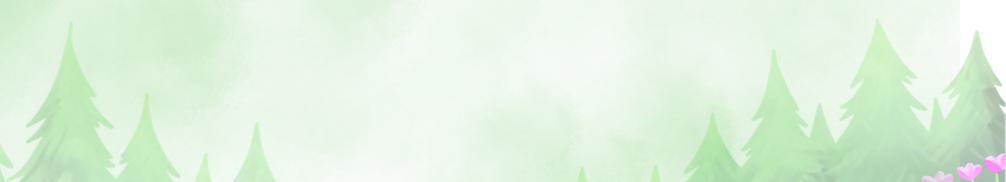
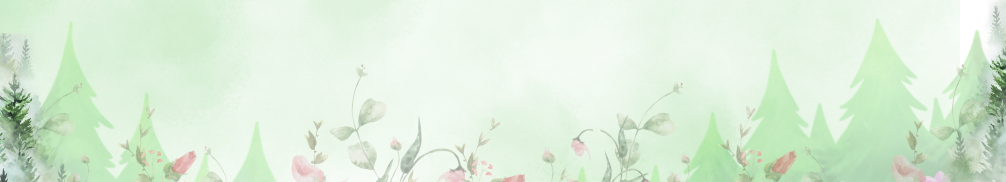
update

diff --git a/src/pages/Login.jsx b/src/pages/Login.jsx
@@ -1,88 +1,217 @@
 import { Link, useNavigate } from "react-router-dom"
 import { useState } from "react"
 import bgDaun from "../assets/bgDaun.jpeg"
+import Swal from "sweetalert2"
 
 function Login() {
   const navigate = useNavigate()
 
   const [email, setEmail] = useState("")
   const [password, setPassword] = useState("")
+  const [showForgot, setShowForgot] = useState(false)
 
   const handleLogin = (e) => {
     e.preventDefault()
 
-    // 1. Ambil data yang sudah tersimpan di localStorage (dari pendaftaran)
     const storedEmail = localStorage.getItem("userEmail")
     const storedPassword = localStorage.getItem("userPassword")
     const storedName = localStorage.getItem("userName")
 
-    // 2. Validasi: Cek apakah akun sudah ada dan datanya cocok
     if (!storedEmail) {
-      alert("Akun belum terdaftar! Silakan daftar terlebih dahulu.")
+      Swal.fire({
+        title: "Akun Tidak Ada",
+        text: "Kamu belum terdaftar nih, daftar dulu yuk!",
+        icon: "warning",
+        confirmButtonColor: "#16a34a",
+        borderRadius: "25px"
+      })
       navigate("/register")
       return
     }
 
     if (email === storedEmail && password === storedPassword) {
-      // Jika cocok, set status login
       localStorage.setItem("isLoggedIn", "true")
       
-      alert(`Login berhasil! Selamat datang kembali, ${storedName}`)
-      navigate("/") // Masuk ke Dashboard
+      Swal.fire({
+        title: `Halo, ${storedName}!`,
+        text: "Selamat datang kembali di SehatYuk 🌿",
+        icon: "success",
+        timer: 2000,
+        showConfirmButton: false,
+        borderRadius: "25px"
+      })
+      
+      setTimeout(() => navigate("/"), 2000)
     } else {
-      // Jika tidak cocok
-      alert("Email atau password salah. Coba dicek lagi ya!")
+      setShowForgot(true)
+      Swal.fire({
+        title: "Ups!",
+        text: "Email atau password salah. Cek lagi ya!",
+        icon: "error",
+        confirmButtonColor: "#16a34a",
+        borderRadius: "25px"
+      })
+    }
+  }
+
+  // --- ALUR LUPA KATA SANDI (FULL FLOW) ---
+  const handleForgotPassword = async () => {
+    // Langkah 1: Minta Email
+    const { value: emailInput } = await Swal.fire({
+      title: 'Lupa Kata Sandi?',
+      text: 'Masukkan email kamu untuk menerima kode verifikasi.',
+      input: 'email',
+      inputPlaceholder: 'Masukkan email terdaftar',
+      showCancelButton: true,
+      confirmButtonText: 'Kirim Kode',
+      confirmButtonColor: '#16a34a',
+      cancelButtonText: 'Batal',
+      borderRadius: '25px',
+    })
+
+    if (emailInput) {
+      // Validasi email terdaftar (Simulasi)
+      if (emailInput !== localStorage.getItem("userEmail")) {
+        Swal.fire('Error', 'Email ini tidak terdaftar di sistem kami.', 'error');
+        return;
+      }
+
+      // Langkah 2: Simulasi Kirim Kode (OTP)
+      const otpCode = Math.floor(100000 + Math.random() * 900000);
+      
+      Swal.fire({
+        title: 'Mengirim Kode...',
+        html: 'Mohon tunggu sebentar ya, Lip.',
+        allowOutsideClick: false,
+        didOpen: () => { Swal.showLoading() }
+      })
+
+      // Simulasi delay 2 detik
+      setTimeout(async () => {
+        // Langkah 3: Input Kode Verifikasi
+        const { value: otpInput } = await Swal.fire({
+          icon: 'info',
+          title: 'Verifikasi Kode',
+          html: `Kode telah dikirim ke <b>${emailInput}</b>.<br><br>Gunakan kode: <b class="text-green-600 text-xl">${otpCode}</b>`,
+          input: 'text',
+          inputPlaceholder: 'Masukkan 6 digit kode',
+          showCancelButton: true,
+          confirmButtonText: 'Verifikasi',
+          confirmButtonColor: '#16a34a',
+          borderRadius: '25px',
+          inputValidator: (value) => {
+            if (!value) return 'Kode harus diisi!'
+            if (value !== otpCode.toString()) return 'Kode salah! Cek email lagi.'
+          }
+        });
+
+        if (otpInput) {
+          // Langkah 4: Buat Password Baru
+          const { value: newPass } = await Swal.fire({
+            title: 'Password Baru',
+            text: 'Masukkan password baru yang mudah kamu ingat.',
+            input: 'password',
+            inputPlaceholder: 'Password baru',
+            inputAttributes: { autocapitalize: 'off', autocorrect: 'off' },
+            showCancelButton: true,
+            confirmButtonText: 'Simpan Password',
+            confirmButtonColor: '#16a34a',
+            borderRadius: '25px',
+            inputValidator: (value) => {
+              if (value.length < 6) return 'Password minimal 6 karakter!'
+            }
+          });
+
+          if (newPass) {
+            // Update simulasi database
+            localStorage.setItem("userPassword", newPass);
+            
+            Swal.fire({
+              icon: 'success',
+              title: 'Berhasil!',
+              text: 'Password kamu sudah diperbarui. Silakan login kembali.',
+              confirmButtonColor: '#16a34a',
+              borderRadius: '25px'
+            });
+            
+            // Bersihkan input login
+            setPassword("");
+            setShowForgot(false);
+          }
+        }
+      }, 2000);
     }
   }
 
   return (
-    <div className="flex items-center justify-center min-h-screen bg-green-50 p-4">
+    <div className="flex items-center justify-center min-h-screen bg-green-50 p-4 font-sans">
       <div
-        className="rounded-3xl shadow-2xl w-80 bg-cover bg-center overflow-hidden border border-white/20"
+        className="rounded-[40px] shadow-2xl w-80 bg-cover bg-center overflow-hidden border border-white/20 transition-all duration-500"
         style={{ backgroundImage: `url(${bgDaun})` }}
       >
-        <div className="p-8 bg-white/80 backdrop-blur-md">
-          <h1 className="text-3xl font-black text-green-700 text-center mb-2 tracking-tight">
-            🌿 SehatYuk
-          </h1>
-
-          <p className="text-green-800/60 text-center mb-6 text-sm font-medium">
-            Masuk untuk melanjutkan
-          </p>
+        <div className="p-9 bg-white/85 backdrop-blur-lg">
+          <div className="flex flex-col items-center mb-6">
+            <span className="text-4xl mb-2">🌿</span>
+            <h1 className="text-3xl font-black text-green-700 tracking-tighter">
+              SehatYuk
+            </h1>
+            <p className="text-[10px] font-bold text-green-800/50 uppercase tracking-[0.2em] mt-1">
+              Mental Health Tracker
+            </p>
+          </div>
 
           <form onSubmit={handleLogin} className="space-y-4">
-            <input
-              type="email"
-              placeholder="Email"
-              required
-              value={email}
-              onChange={(e) => setEmail(e.target.value)}
-              className="w-full p-4 border border-green-100 rounded-2xl bg-white/90 outline-none focus:ring-2 focus:ring-green-400 text-sm transition-all"
-            />
+            <div className="space-y-1">
+              <input
+                type="email"
+                placeholder="Email"
+                required
+                value={email}
+                onChange={(e) => setEmail(e.target.value)}
+                className="w-full p-4 border border-green-100 rounded-[22px] bg-white/90 outline-none focus:ring-2 focus:ring-green-400 text-sm transition-all shadow-sm"
+              />
+            </div>
 
-            <input
-              type="password"
-              placeholder="Password"
-              required
-              value={password}
-              onChange={(e) => setPassword(e.target.value)}
-              className="w-full p-4 border border-green-100 rounded-2xl bg-white/90 outline-none focus:ring-2 focus:ring-green-400 text-sm transition-all"
-            />
+            <div className="space-y-1">
+              <input
+                type="password"
+                placeholder="Password"
+                required
+                value={password}
+                onChange={(e) => setPassword(e.target.value)}
+                className="w-full p-4 border border-green-100 rounded-[22px] bg-white/90 outline-none focus:ring-2 focus:ring-green-400 text-sm transition-all shadow-sm"
+              />
+              
+              {/* TOMBOL LUPA SANDI (Hanya muncul jika salah) */}
+              {showForgot && (
+                <div className="flex justify-end px-2 animate-in fade-in slide-in-from-right-2 duration-300">
+                  <button 
+                    type="button" 
+                    onClick={handleForgotPassword}
+                    className="text-[10px] font-black text-green-600 hover:text-green-800 underline uppercase tracking-tighter"
+                  >
+                    Lupa kata sandi?
+                  </button>
+                </div>
+              )}
+            </div>
 
             <button 
               type="submit"
-              className="w-full bg-green-600 text-white p-4 rounded-full hover:bg-green-700 transition-all font-bold shadow-lg active:scale-95 mt-2"
+              className="w-full bg-green-600 text-white p-4 rounded-full hover:bg-green-700 transition-all font-black shadow-lg active:scale-95 mt-4 tracking-widest text-xs"
             >
               MASUK SEKARANG
             </button>
           </form>
 
-          <p className="text-xs text-center mt-6 text-green-900/70 font-medium">
-            Belum punya akun?{" "}
-            <Link to="/register" className="font-bold text-green-700 hover:underline">
-              Daftar di sini
+          <div className="mt-8 pt-6 border-t border-green-100 flex flex-col items-center">
+            <p className="text-[11px] text-green-900/60 font-bold mb-1">
+              Belum punya akun SehatYuk?
+            </p>
+            <Link to="/register" className="text-xs font-black text-green-700 hover:underline tracking-tight">
+              DAFTAR AKUN BARU
             </Link>
-          </p>
+          </div>
         </div>
       </div>
     </div>

diff --git a/src/components/BottomNav.jsx b/src/components/BottomNav.jsx
@@ -1,6 +1,6 @@
 import { Link, useLocation } from "react-router-dom"
 import { Home, Smile, Flame, BookOpen, User } from "lucide-react"
-import bg from "../assets/BackgroundMood.png"
+import bg from "../assets/BackgroundBottom.png"
 
 function BottomNav() {
   const location = useLocation(); 
